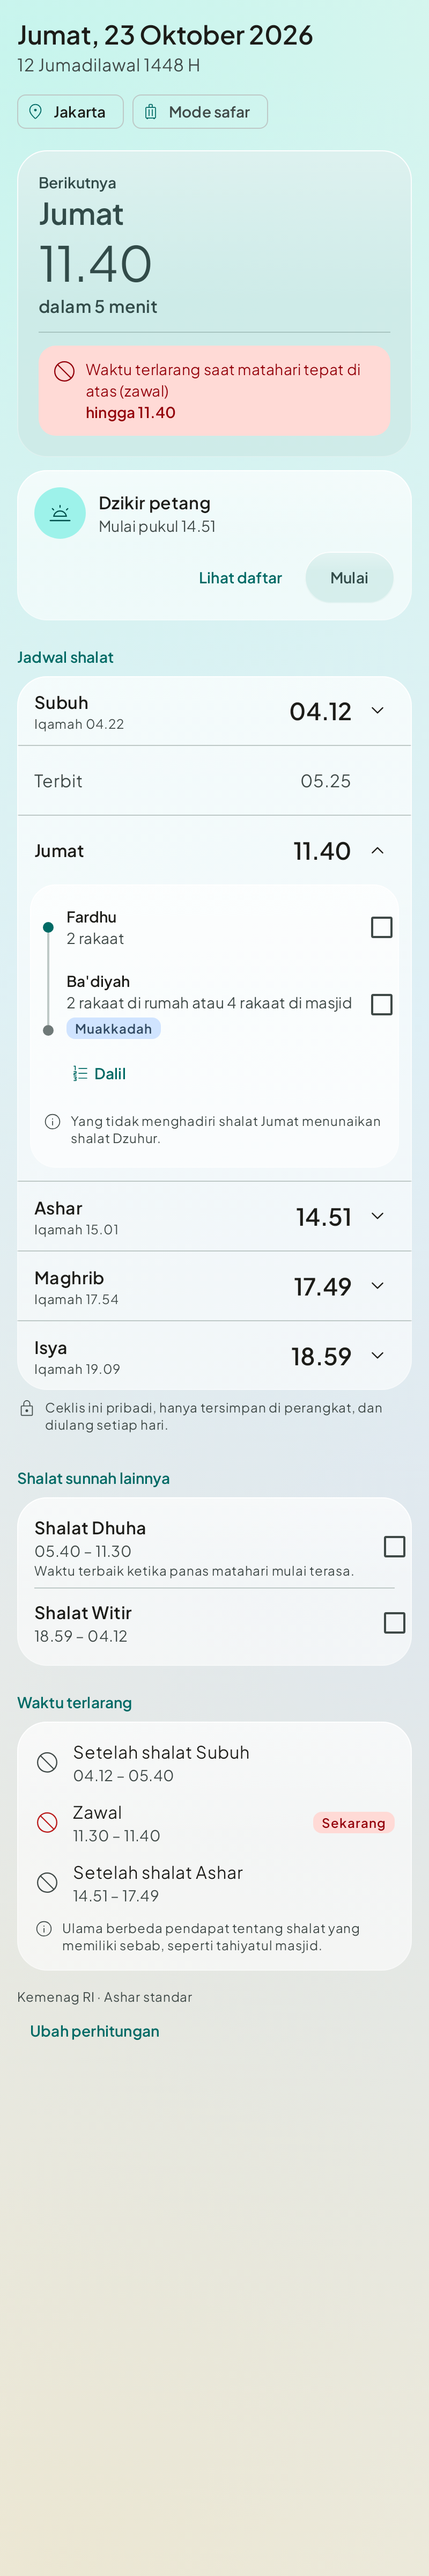
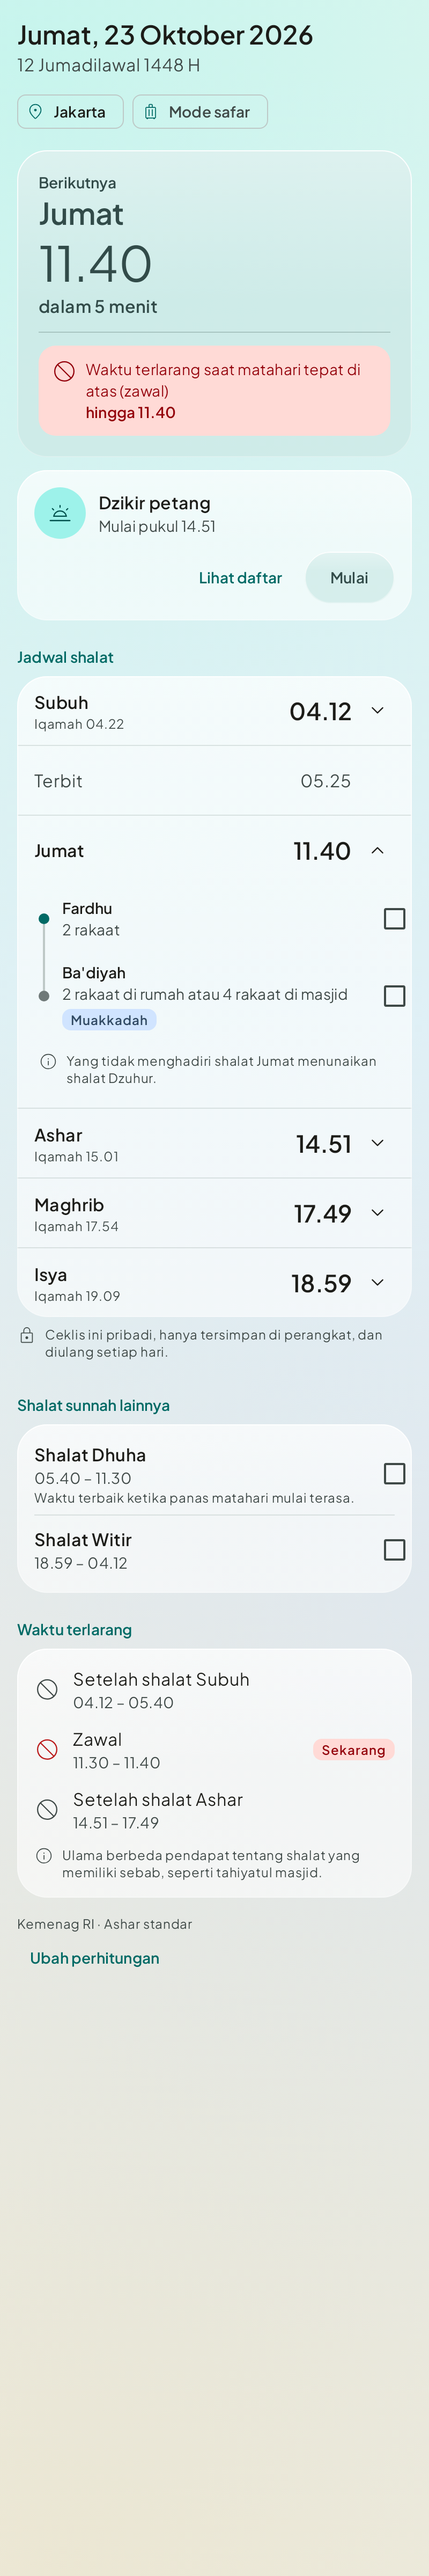
0.2.6: Today timeline fixes from on-device screenshot
- "Dalil" link only shows when the entry has evidence (rawatib evidence is empty,
  so it opened a sheet saying so: a dead end).
- Timeline dots are centred on each step's checklist row, level with its checkbox,
  instead of on the whole block including notes.
- The rawatib timeline no longer sits in a card nested inside the prayer card:
  checkboxes now line up with every other checklist on the screen.
- Dividers inside glass cards are hairlines (outlineVariant at 50%).

Claude-Session: https://claude.ai/code/session_017UkjHqX5qKDRZrnQEnS1BM

diff --git a/app/src/main/java/id/haho/muslimdaily/feature/today/TodayPrayerList.kt b/app/src/main/java/id/haho/muslimdaily/feature/today/TodayPrayerList.kt
@@ -74,7 +74,7 @@ internal fun PrayerListCard(
     GlassCard(modifier = modifier.fillMaxWidth(), shape = MaterialTheme.shapes.extraLarge) {
         Column {
             data.rows.forEachIndexed { i, row ->
-                if (i > 0) HorizontalDivider(color = MaterialTheme.colorScheme.outlineVariant)
+                if (i > 0) HorizontalDivider(color = MaterialTheme.colorScheme.outlineVariant.copy(alpha = DIVIDER_ALPHA))
                 PrayerRowView(
                     row = row,
                     data = data,
@@ -198,16 +198,14 @@ private fun Timeline(
         plan.fard?.let { add(TimelineStep.Obligatory(it.rakah)) }
         plan.after.forEach { add(TimelineStep.Sunnah(it, isBefore = false)) }
     }
-    GlassCard(shape = MaterialTheme.shapes.large, modifier = Modifier.padding(
-        start = AppTheme.spacing.md, end = AppTheme.spacing.md, bottom = AppTheme.spacing.md,
-    )) {
-        Column(Modifier.padding(vertical = AppTheme.spacing.sm)) {
-            steps.forEachIndexed { i, step ->
-                TimelineStepRow(step, plan, data, isFirst = i == 0, isLast = i == steps.lastIndex, onToggle, onShowEvidence)
-            }
-            if (plan.showJumuahNote) {
-                InfoNote(stringResource(R.string.note_jumuah), Modifier.padding(AppTheme.spacing.md))
-            }
+    // Sits directly under the prayer row (no inner card): the rail groups the steps, and the
+    // checkboxes line up with every other checklist on the screen.
+    Column(Modifier.padding(start = AppTheme.spacing.sm, bottom = AppTheme.spacing.sm)) {
+        steps.forEachIndexed { i, step ->
+            TimelineStepRow(step, plan, data, isFirst = i == 0, isLast = i == steps.lastIndex, onToggle, onShowEvidence)
+        }
+        if (plan.showJumuahNote) {
+            InfoNote(stringResource(R.string.note_jumuah), Modifier.padding(AppTheme.spacing.md))
         }
     }
 }
@@ -232,9 +230,15 @@ private fun TimelineStepRow(
         is TimelineStep.Sunnah -> ChecklistRepository.rawatibKey(step.line.primary.id)
     }
     val checked = key in data.checked
-    Row(Modifier.fillMaxWidth().height(IntrinsicSize.Min).padding(start = AppTheme.spacing.md)) {
-        Rail(isFirst, isLast, emphasised = step is TimelineStep.Obligatory)
-        Column(Modifier.weight(1f)) {
+    val sunnah = step as? TimelineStep.Sunnah
+    val notes = sunnah?.line?.primary?.notes
+    // "Dalil" only when there is evidence to show; an empty sheet is a dead end.
+    val hasEvidence = sunnah?.line?.entries?.any { e -> e.evidence.any { it.book.isNotBlank() } } == true
+    val hasExtras = notes != null || hasEvidence
+    Column(Modifier.fillMaxWidth().padding(start = AppTheme.spacing.md)) {
+        // The dot is centred on the checklist row itself, level with its checkbox.
+        Row(Modifier.fillMaxWidth().height(IntrinsicSize.Min)) {
+            Rail(isFirst, isLast && !hasExtras, emphasised = step is TimelineStep.Obligatory)
             CheckRow(
                 checked = checked,
                 onCheckedChange = { onToggle(key, it) },
@@ -255,18 +259,26 @@ private fun TimelineStepRow(
                     }
                 }
             }
-            if (step is TimelineStep.Sunnah) {
-                step.line.primary.notes?.let {
-                    Text(
-                        it,
-                        style = MaterialTheme.typography.bodySmall,
-                        color = MaterialTheme.colorScheme.onSurfaceVariant,
-                        modifier = Modifier.padding(start = AppTheme.spacing.md, end = AppTheme.spacing.md),
-                    )
-                }
-                TextButton(onClick = { onShowEvidence(step.line) }, modifier = Modifier.padding(start = AppTheme.spacing.xs)) {
-                    Icon(painterResource(R.drawable.ic_format_list_numbered), null, Modifier.size(AppTheme.dimens.smallIcon))
-                    Text(stringResource(R.string.rawatib_evidence), Modifier.padding(start = AppTheme.spacing.xs))
+        }
+        if (sunnah != null && hasExtras) {
+            Row(Modifier.fillMaxWidth().height(IntrinsicSize.Min)) {
+                RailLine(visible = !isLast)
+                // Notes line up with the step title; the text button's own inset does the same for "Dalil".
+                Column(Modifier.weight(1f).padding(start = AppTheme.spacing.xs)) {
+                    notes?.let {
+                        Text(
+                            it,
+                            style = MaterialTheme.typography.bodySmall,
+                            color = MaterialTheme.colorScheme.onSurfaceVariant,
+                            modifier = Modifier.padding(start = AppTheme.spacing.md - AppTheme.spacing.xs, end = AppTheme.spacing.md),
+                        )
+                    }
+                    if (hasEvidence) {
+                        TextButton(onClick = { onShowEvidence(sunnah.line) }) {
+                            Icon(painterResource(R.drawable.ic_format_list_numbered), null, Modifier.size(AppTheme.dimens.smallIcon))
+                            Text(stringResource(R.string.rawatib_evidence), Modifier.padding(start = AppTheme.spacing.xs))
+                        }
+                    }
                 }
             }
         }
@@ -305,6 +317,15 @@ private fun rakahText(line: RawatibLine): String? {
     }
     if (parts.isEmpty()) return null
     return parts.reduce { acc, s -> stringResource(R.string.rakah_or, acc, s) }
+}
+
+/** The rail continuing past a step's notes and evidence link, without a dot. */
+@Composable
+private fun RailLine(visible: Boolean) {
+    val lineColor = MaterialTheme.colorScheme.outlineVariant
+    Box(Modifier.fillMaxHeight().width(AppTheme.dimens.timelineDot), contentAlignment = Alignment.Center) {
+        if (visible) Box(Modifier.fillMaxHeight().width(AppTheme.dimens.divider * 2).background(lineColor))
+    }
 }
 
 @Composable
@@ -367,7 +388,7 @@ internal fun OtherSunnahCard(data: TodayData, onToggle: (String, Boolean) -> Uni
                     onCheckedChange = { onToggle(ChecklistRepository.DUHA, it) },
                 )
             }
-            HorizontalDivider(color = MaterialTheme.colorScheme.outlineVariant, modifier = Modifier.padding(horizontal = AppTheme.dimens.screenGutter))
+            HorizontalDivider(color = MaterialTheme.colorScheme.outlineVariant.copy(alpha = DIVIDER_ALPHA), modifier = Modifier.padding(horizontal = AppTheme.dimens.screenGutter))
             data.witr?.let { w ->
                 SunnahWindowRow(
                     title = stringResource(R.string.witr_title),
@@ -464,3 +485,6 @@ private fun ProhibitedRow(window: TimeWindow, data: TodayData, start: String, en
         }
     }
 }
+
+/** Dividers inside glass cards are hairlines; a solid line reads as heavy on translucent fills. */
+private const val DIVIDER_ALPHA = 0.5f
